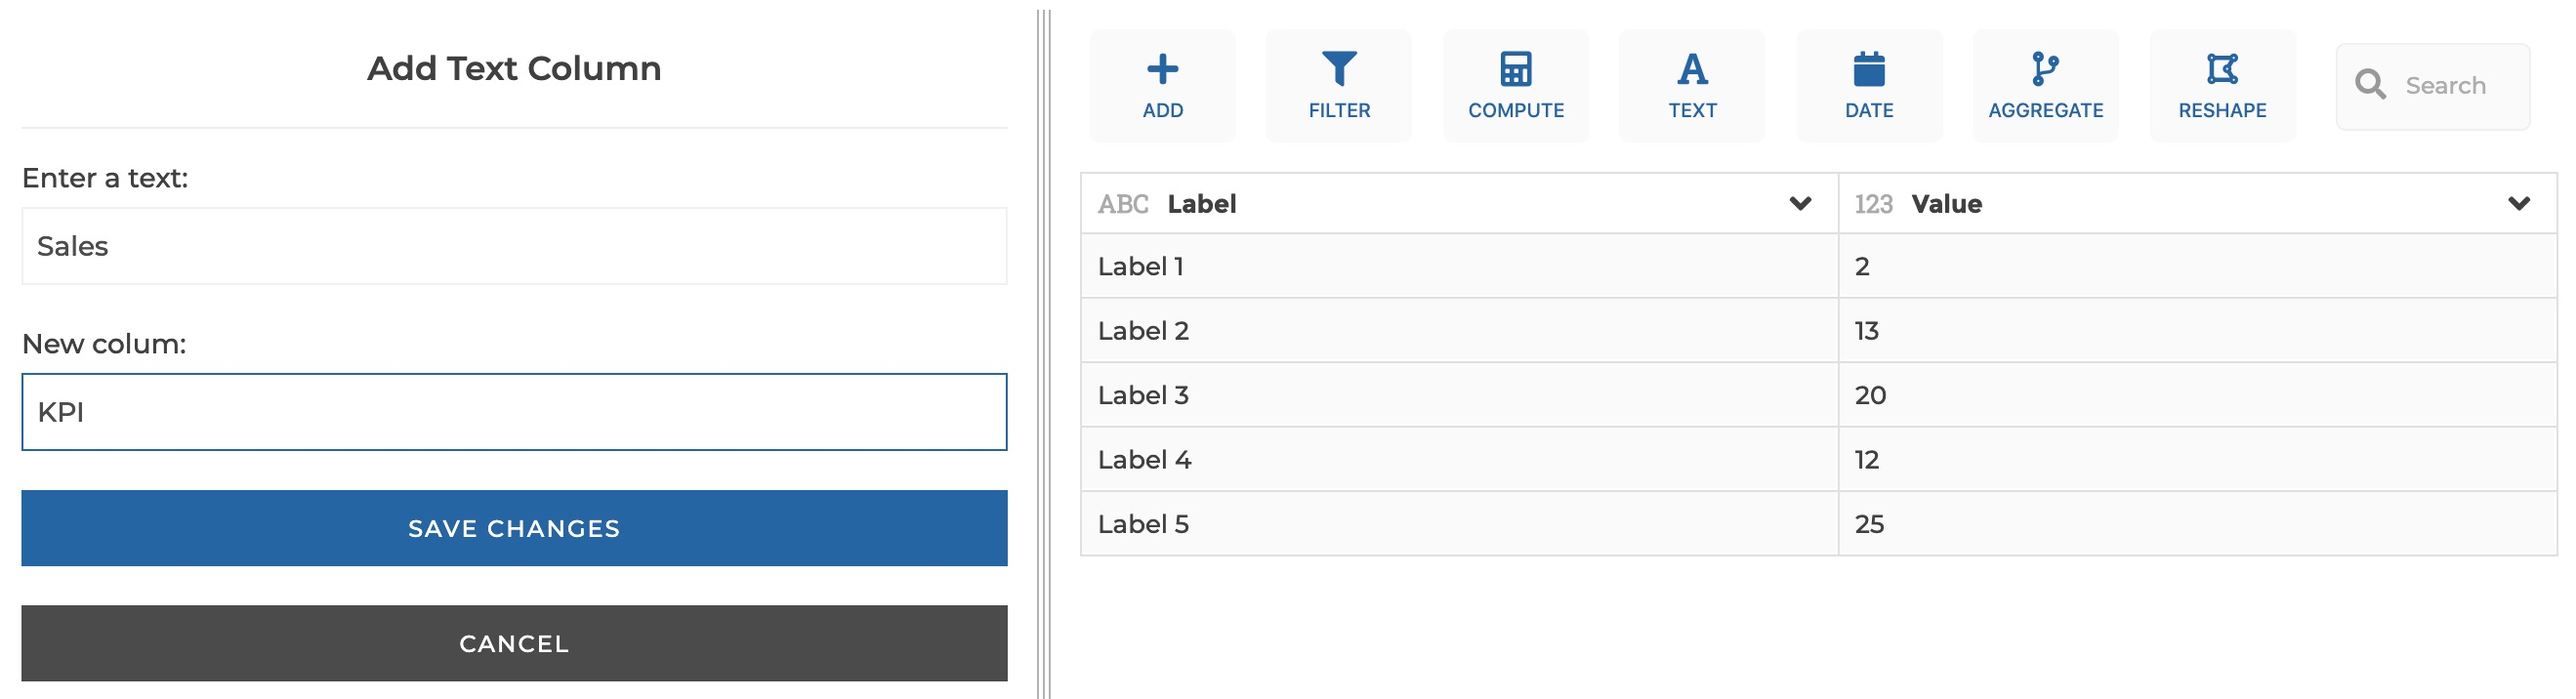
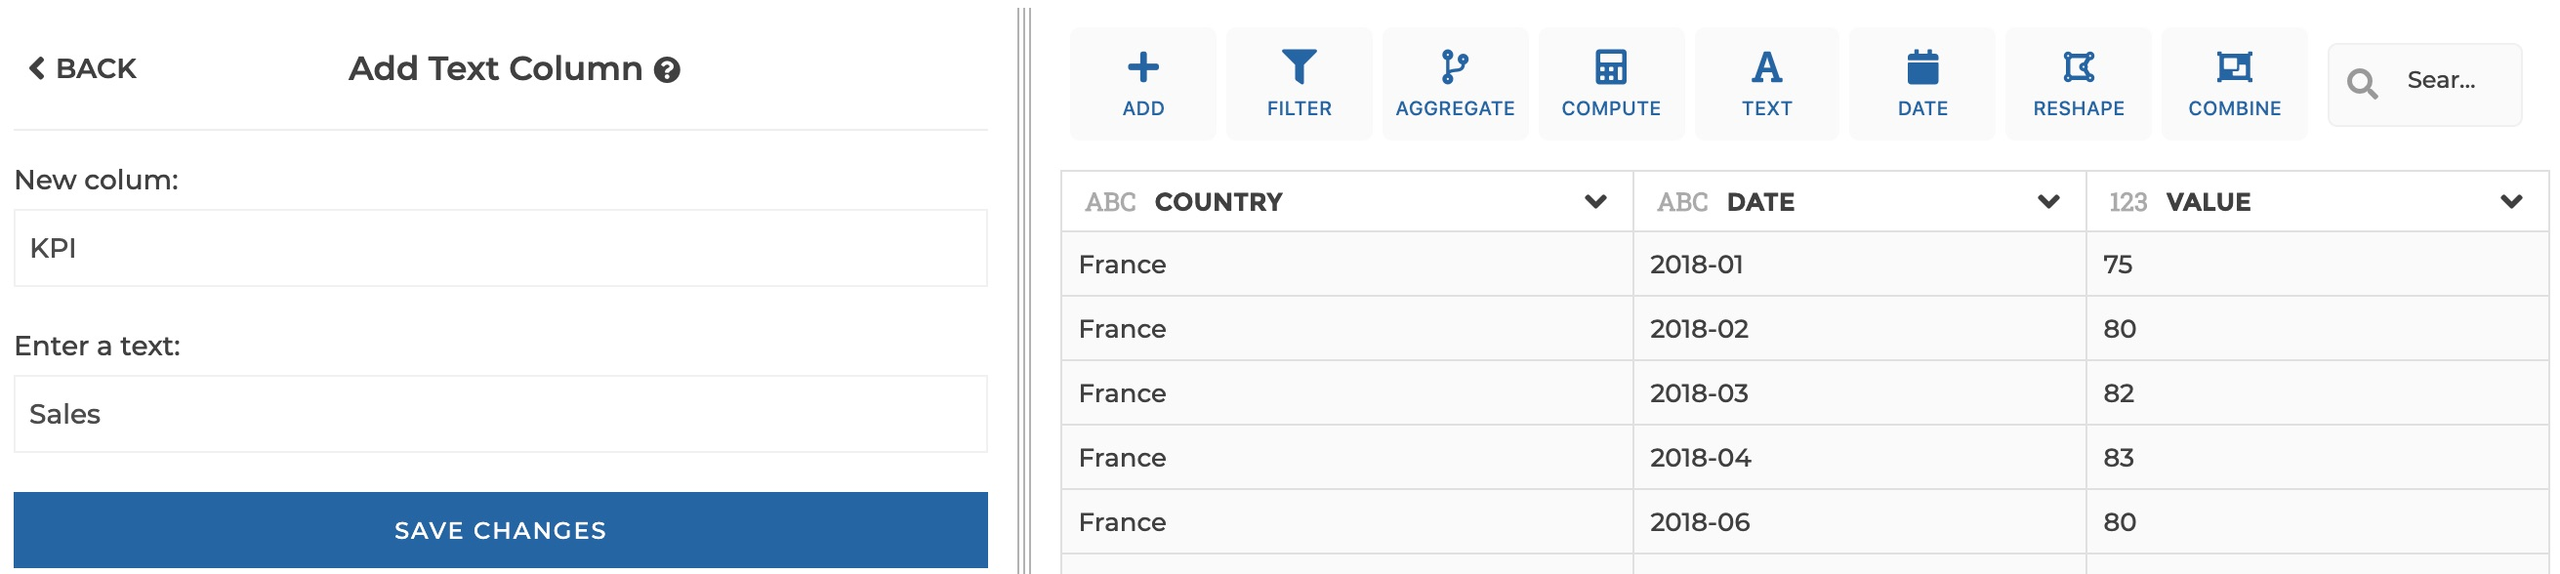
Change parameters orders to make some forms more intuitive In text and formula steps, first ask for the new columnn name to be created, which is more intuitive according to several feedbacks.

diff --git a/tests/unit/add-text-column.spec.ts b/tests/unit/add-text-column.spec.ts
@@ -13,18 +13,8 @@ describe('Add Text Column Step Form', () => {
     const wrapper = runner.shallowMount();
     wrapper.setData({ editedStep: { name: 'text', text: 'some text', new_column: 'foo' } });
     await wrapper.vm.$nextTick();
-    expect(
-      wrapper
-        .findAll('inputtextwidget-stub')
-        .at(0)
-        .props('value'),
-    ).toEqual('some text');
-    expect(
-      wrapper
-        .findAll('inputtextwidget-stub')
-        .at(1)
-        .props('value'),
-    ).toEqual('foo');
+    expect(wrapper.find('.newColumnInput').props('value')).toEqual('foo');
+    expect(wrapper.find('.textInput').props('value')).toEqual('some text');
   });
 
   it('should make the focus on the column added after validation', () => {
@@ -68,8 +58,7 @@ describe('Add Text Column Step Form', () => {
       const wrapper = runner.shallowMount(initialState);
       wrapper.setData({ editedStep: { text: '', new_column: 'columnA' } });
       await wrapper.vm.$nextTick();
-      const inputText = wrapper.findAll('inputtextwidget-stub');
-      expect(inputText.at(1).props().warning).toEqual(
+      expect(wrapper.find('.newColumnInput').props().warning).toEqual(
         'A column name "columnA" already exists. You will overwrite it.',
       );
     });
@@ -84,8 +73,7 @@ describe('Add Text Column Step Form', () => {
       const wrapper = runner.shallowMount(initialState);
       wrapper.setData({ editedStep: { text: '', new_column: 'columnB' } });
       await wrapper.vm.$nextTick();
-      const inputText = wrapper.findAll('inputtextwidget-stub');
-      expect(inputText.at(1).props().warning).toBeNull();
+      expect(wrapper.find('.newColumnInput').props().warning).toBeNull();
     });
   });
 });

diff --git a/tests/unit/formula-step-form.spec.ts b/tests/unit/formula-step-form.spec.ts
@@ -36,18 +36,8 @@ describe('Formula Step Form', () => {
       },
     );
     await wrapper.vm.$nextTick();
-    expect(
-      wrapper
-        .findAll('inputtextwidget-stub')
-        .at(0)
-        .props('value'),
-    ).toEqual('ColumnA * 2');
-    expect(
-      wrapper
-        .findAll('inputtextwidget-stub')
-        .at(1)
-        .props('value'),
-    ).toEqual('foo');
+    expect(wrapper.find('.newColumnInput').props('value')).toEqual('foo');
+    expect(wrapper.find('.formulaInput').props('value')).toEqual('ColumnA * 2');
   });
 
   describe('Warning', () => {
@@ -62,8 +52,7 @@ describe('Formula Step Form', () => {
         data: { editedStep: { formula: '', new_column: 'columnA' } },
       });
       await wrapper.vm.$nextTick();
-      const inputText = wrapper.findAll('inputtextwidget-stub');
-      expect(inputText.at(1).props().warning).toEqual(
+      expect(wrapper.find('.newColumnInput').props().warning).toEqual(
         'A column name "columnA" already exists. You will overwrite it.',
       );
     });
@@ -79,8 +68,7 @@ describe('Formula Step Form', () => {
         data: { editedStep: { formula: '', new_column: 'columnB' } },
       });
       await wrapper.vm.$nextTick();
-      const inputText = wrapper.findAll('inputtextwidget-stub');
-      expect(inputText.at(1).props().warning).toBeNull();
+      expect(wrapper.find('.newColumnInput').props().warning).toBeNull();
     });
   });
 

diff --git a/src/components/stepforms/FormulaStepForm.vue b/src/components/stepforms/FormulaStepForm.vue
@@ -2,14 +2,6 @@
   <div>
     <StepFormHeader :title="title" :stepName="this.editedStep.name" />
     <InputTextWidget
-      class="formulaInput"
-      v-model="editedStep.formula"
-      name="Formula:"
-      placeholder
-      data-path=".formula"
-      :errors="errors"
-    />
-    <InputTextWidget
       class="newColumnInput"
       v-model="editedStep.new_column"
       name="New colum:"
@@ -17,6 +9,14 @@
       data-path=".new_column"
       :errors="errors"
       :warning="duplicateColumnName"
+    />
+    <InputTextWidget
+      class="formulaInput"
+      v-model="editedStep.formula"
+      name="Formula:"
+      placeholder
+      data-path=".formula"
+      :errors="errors"
     />
     <StepFormButtonbar />
   </div>

diff --git a/src/components/stepforms/AddTextColumnStepForm.vue b/src/components/stepforms/AddTextColumnStepForm.vue
@@ -2,14 +2,6 @@
   <div>
     <StepFormHeader :title="title" :stepName="this.editedStep.name" />
     <InputTextWidget
-      class="textInput"
-      v-model="editedStep.text"
-      name="Enter a text:"
-      placeholder
-      data-path=".text"
-      :errors="errors"
-    />
-    <InputTextWidget
       class="newColumnInput"
       v-model="editedStep.new_column"
       name="New colum:"
@@ -17,6 +9,14 @@
       data-path=".new_column"
       :errors="errors"
       :warning="duplicateColumnName"
+    />
+    <InputTextWidget
+      class="textInput"
+      v-model="editedStep.text"
+      name="Enter a text:"
+      placeholder
+      data-path=".text"
+      :errors="errors"
     />
     <StepFormButtonbar />
   </div>

diff --git a/CHANGELOG.md b/CHANGELOG.md
@@ -3,7 +3,9 @@
 ## Unreleased
 
 ### Changed
+
 - The way we handle backendMessages (error/warning) by `BackendService`
+- Parameters order in text and formula steps forms
 
 ## [0.17.0] - 2020-05-12
 
@@ -25,7 +27,7 @@
 
 ### Fixed
 
-- pagination appears if DataSet is not complete 
+- pagination appears if DataSet is not complete
 - column unique values can be of any type
 - action toolbar buttons style
 
@@ -48,6 +50,7 @@
 ## [0.15.1] - 2020-04-06
 
 ### Changed
+
 - The Popover is not necessary mounted when not visible. Column's action menu are then not mounted, improving performance of DataSetViewer.
 
 ### Fixed

diff --git a/docs/_docs/user-interface/formula.md b/docs/_docs/user-interface/formula.md
@@ -26,12 +26,12 @@ as a string.
 
 <img src="../../img/docs/user-interface/formula_step_form.jpg" width="350" />
 
+- `New column`: the name of the new column to be created with the formula
+  result.
+
 - `Formula`: the formula, which can be an algebraic formula composed of numbers,
   maths operators and columns; it can also be a text (escaped by quotes) to
   uniformly fill the column with that text.
-
-- `New column`: the name of the new column to be created with the formula
-  result.
 
 #### Example 1: Basic usage
 

diff --git a/docs/_docs/user-interface/text.md b/docs/_docs/user-interface/text.md
@@ -22,9 +22,9 @@ specified text.
 
 <img src="../../img/docs/user-interface/text_step_form.jpg" width="350" />
 
-- `Text`: the text that you want to write in the new column
-
 - `New column`: the name of the new column to be created
+
+- `Enter a text`: the text that you want to write in the new column
 
 #### Example:
 
